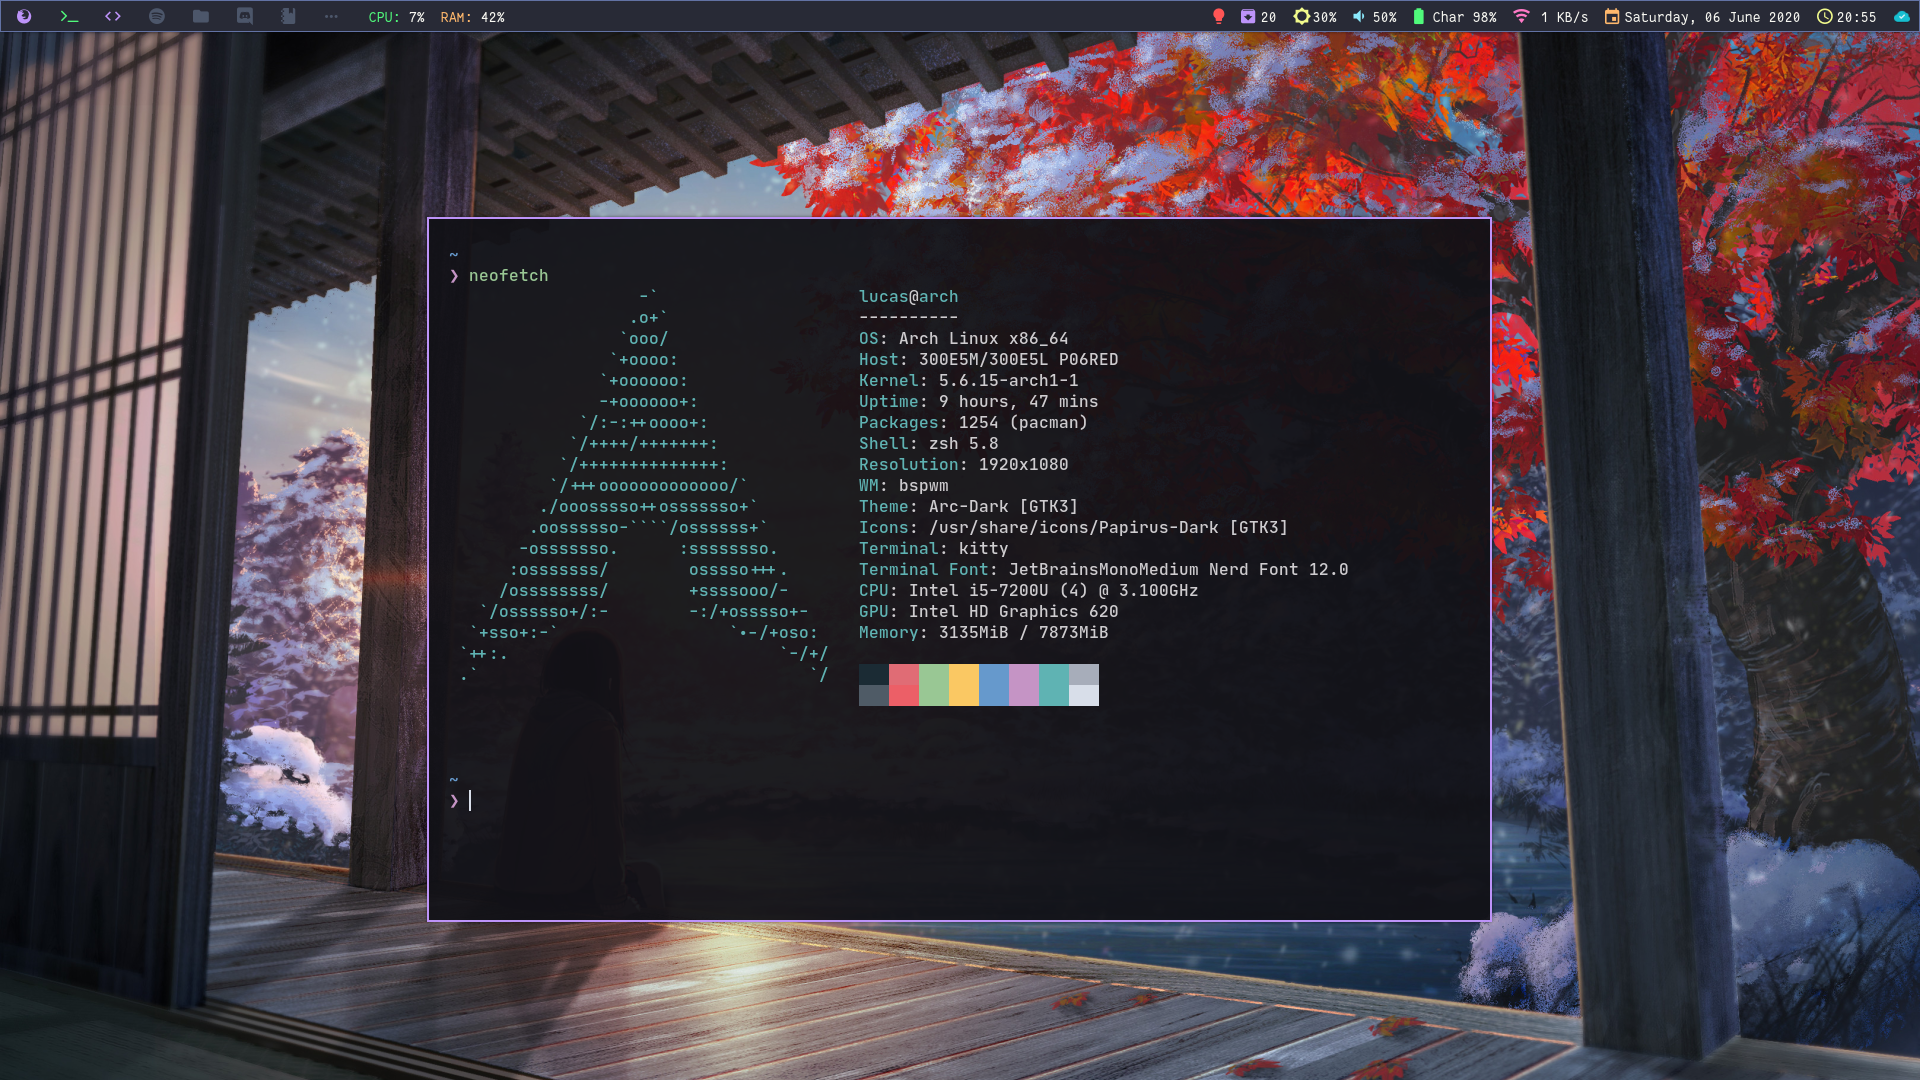
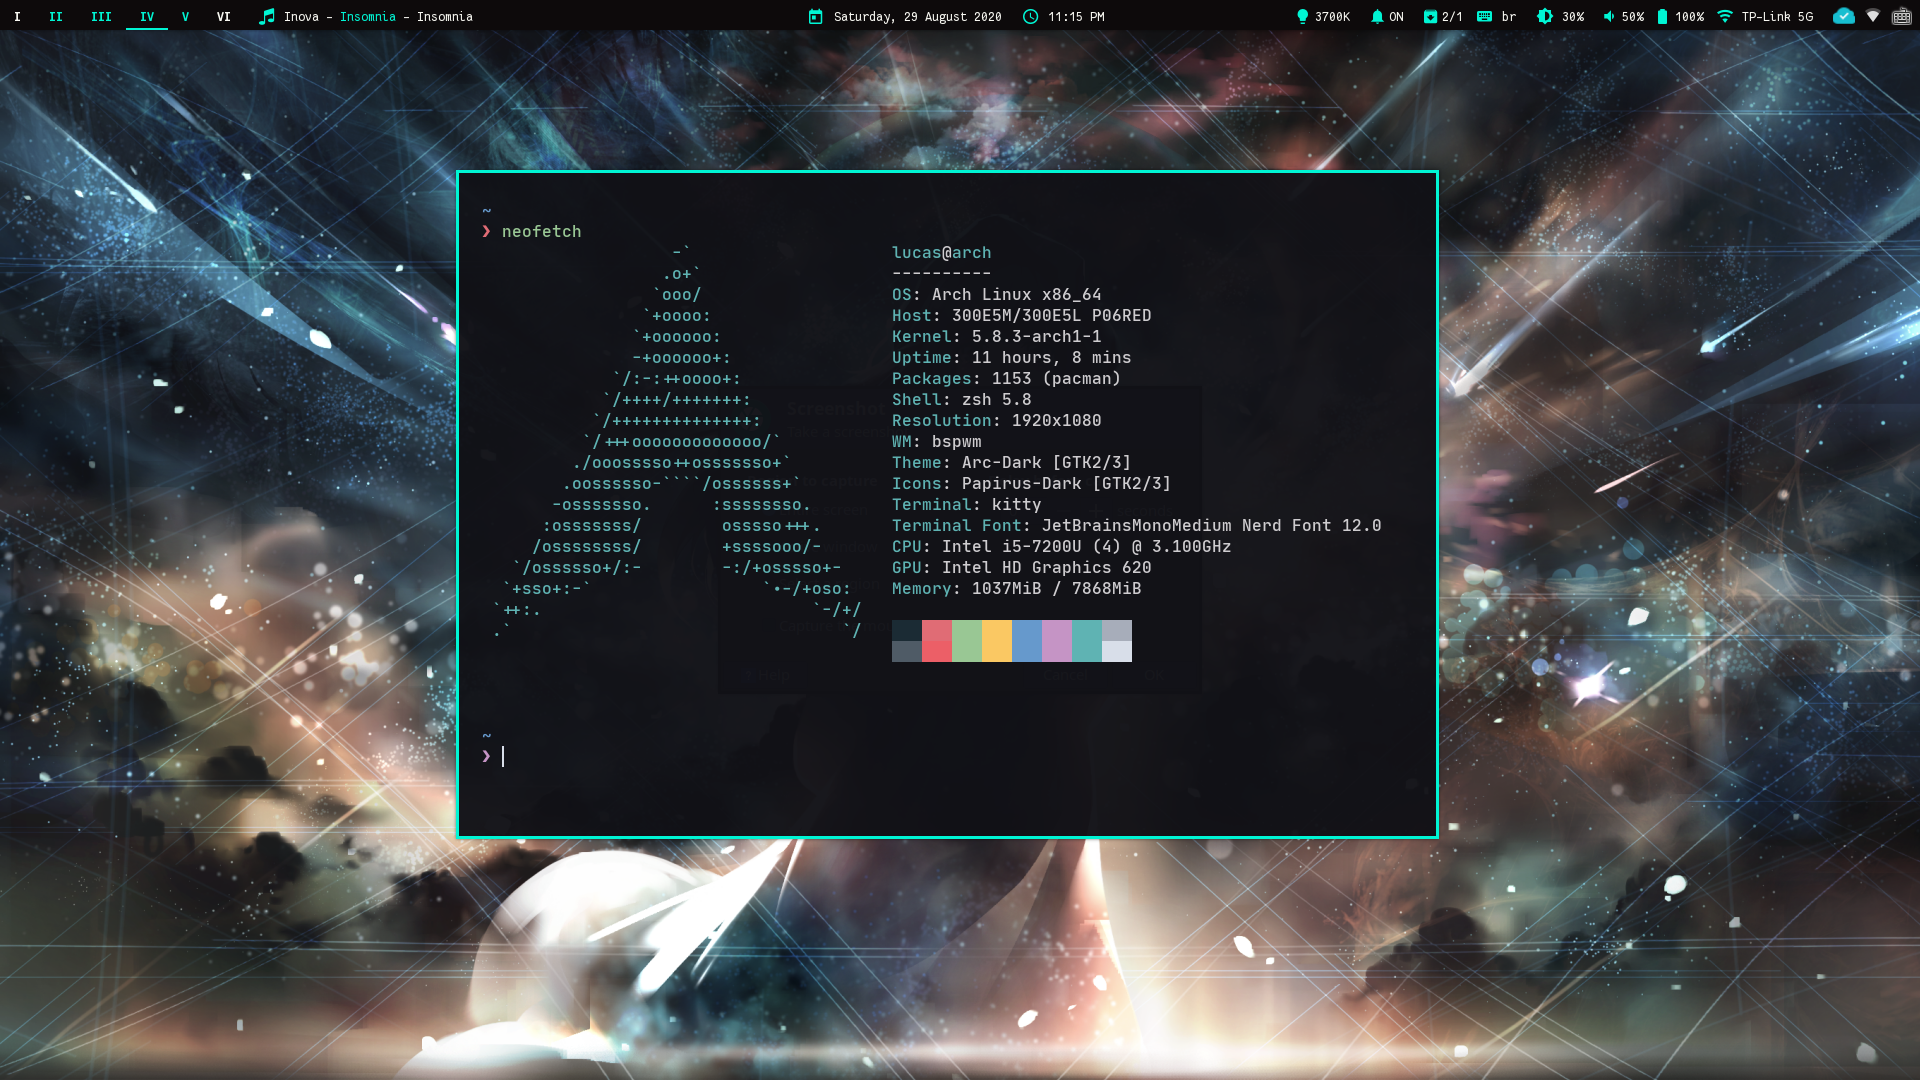
Update terminal image to match current desktop

diff --git a/README.md b/README.md
@@ -7,13 +7,10 @@ My configuration for zsh, nvim, bspwm, sxhkd, polybar, and more.
 * **WM**: BSPWM
 * **Status Bar**: Polybar
 * **Terminal**: kitty
-* **Editor**: Nvim and VS Code
+* **Editor**: Neovim and VS Code
 * **Font**: JetBrainsMono Medium - From Nerd Fonts
 
 
-## Screenshots
-![Desktop screenshot](./desktop.png)
-<br><br>
-
+## Screenshot
 ![Terminal screenshot](./terminal.png)
 
